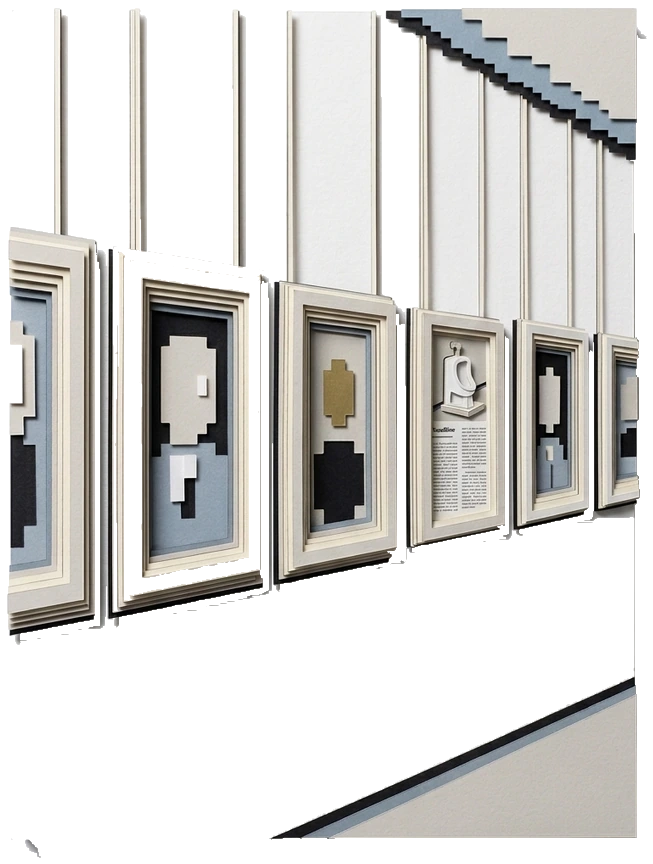
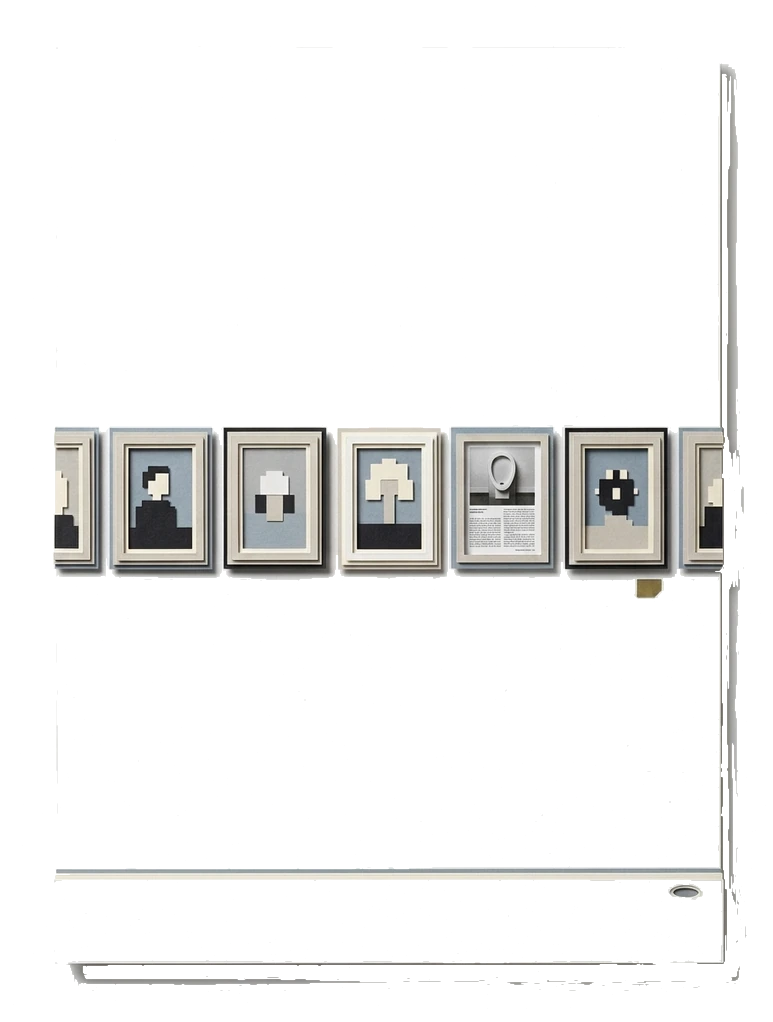
02・03を起こし直し、短評の上に「どんな企画か」を置く
抜きのしきい値が広く、明るい絵の中まで食い込んで欠けていた。隣との差を
6→3に締めた。03は暗い一枚板の上に組む形へ、02は小便器を大きくはっきりと。
あわせて、初めて見る人向けに何をした企画かの説明を短評の上に入れた。

diff --git a/src/data/cases.ts b/src/data/cases.ts
@@ -21,6 +21,8 @@ export const cases: Case[] = [
     year: 1590,
     yearLabel: "16世紀末",
     headline: "小さな入口が、身体の振る舞いを変える。",
+    outline:
+      "千利休がつくったと伝わる二畳の茶室、待庵。その入口「躙口」は高さも幅も七十センチほどしかなく、客は刀を外し、身をかがめて膝で進みながら中へ入る。十六世紀末の京都・大山崎に現存し、国宝に指定されている。",
     body:
       "二畳の茶室へ入るために、客は小さな躙口で身をかがめる。入口の寸法が、身体の動きと空間への注意を切り替える。言葉で姿勢を説くのではなく、入るという行為に組み込む。「身分を平等にした」とは断定しない。",
     target:
@@ -120,6 +122,8 @@ export const cases: Case[] = [
     year: 1917,
     yearLabel: "1917",
     headline: "無審査を掲げる展覧会へ、小便器を出す。",
+    outline:
+      "1917年、ニューヨークの無審査をうたう展覧会へ、マルセル・デュシャンが既製品の小便器を「R. Mutt」名義で《泉》として出品した。理事会は展示を見送り、作品は会場に並ばなかった。翌月、雑誌『The Blind Man』が写真と論説を載せ、この出来事のほうが記録として残った。",
     body:
       "小便器を作品として出品したが、展示されなかった。写真とその経緯が誌面に置かれると、見る人も「何を作品と呼ぶか」を判断する側になる。物の姿だけでなく、それを選び、名づけ、受け入れる条件が見えてくる。",
     target:
@@ -238,6 +242,8 @@ export const cases: Case[] = [
     year: 2011,
     yearLabel: "2011",
     headline: "知らない人の「死ぬまでにしたいこと」が並ぶ。",
+    outline:
+      "2011年、ニューオーリンズでキャンディ・チャンが、空き家の壁一面を黒板に塗り、「Before I die I want to ＿＿」という同じ書き出しと空欄を並べた。通りがかりの人がチョークで書き込み、翌日には壁が見知らぬ人の願いで埋まった。以後、同じ形式が世界各地で生まれている。",
     body:
       "街の壁に、同じ書き出しと空欄を置く。自分の願いを書くだけでなく、知らない人の願いも読める。冗談も切実な望みも同じ面に並び、次に来る人の言葉を誘う。作者が答えを用意せず、他者の人生が現れる場所をつくる。",
     target:
@@ -359,6 +365,8 @@ export const cases: Case[] = [
     year: 2022,
     yearLabel: "2022",
     headline: "同じ一台の車の鍵を、大勢が持つ。",
+    outline:
+      "2022年、MSCHFが一台の車の鍵を複製して多数売り出した企画。鍵を買えば誰でもその車に乗れるが、ほかの鍵の持ち主も同じ車を使える。車の位置は公開され、参加者は探して乗り、また別の場所へ置く。車の所有権はMSCHFに残ったままだった。",
     body:
       "車を見つければ使える。ただし、ほかの鍵の持ち主も同じ車を使える。車に乗りたいという欲望から探索に入ると、使えることと独り占めできることの違いに触れる。車の所有権は参加者に移らず、MSCHFに残る。",
     target:
@@ -519,6 +527,8 @@ export const cases: Case[] = [
     year: 2017,
     yearLabel: "2017",
     headline: "一人では少ししか描けない画面を、全員に開く。",
+    outline:
+      "2017年のエイプリルフールにRedditが公開した、1000×1000の共有画面。利用者は一度に一画素だけ色を置け、次に置けるまで数分待つ。72時間で100万人以上が参加し、上書きと修復の応酬から、共同体ごとの図柄と、その境界をめぐる取り決めが生まれた。",
     body:
       "一画素を置くと、次に置くまで待つ。しかも、同じ場所を他の人も上書きできる。描きたい絵を残すには、修復や仲間集め、隣との交渉が必要になる。単純な描画ルールから、作者が割り当てていない役割や関係が生まれた。",
     target:
@@ -670,6 +680,8 @@ export const cases: Case[] = [
     year: 2018,
     yearLabel: "2018",
     headline: "落札直後、額の中で絵が切れ始める。",
+    outline:
+      "2018年、サザビーズのオークションで、バンクシーの《風船と少女》が約104万ポンドで落札された直後、額に仕込まれた装置が動き、絵の下半分が裁断された。作品は《Love is in the Bin》として新たに認証され、落札者は購入を続行した。",
     body:
       "値段が決まった直後、額の仕掛けで絵の一部が裁断された。その後、新しい題名の作品として認証され、買い手は購入を続けた。保存される物としての絵に、一度きりの出来事としての姿が重なる。価値を決める場への介入。",
     target:
@@ -814,6 +826,8 @@ export const cases: Case[] = [
     year: 2016,
     yearLabel: "2016",
     headline: "街をつくり替えずに、街で遊ぶ理由を変える。",
+    outline:
+      "2016年、Nianticと株式会社ポケモンが配信した、現実の地図の上で遊ぶスマートフォンのゲーム。プレイヤーは実際に街を歩いてポケモンを探し、捕まえ、道具を補充する。配信直後から世界中で公園や路上に人が出て、いつもの道を歩く理由のほうが書き換わった。",
     body:
       "ポケモンを探して捕まえる遊びを、現実の移動につなぐ。いつもの道に、立ち止まる理由や寄り道の目的が重なる。捕まえたいという動機が、画面の外の行動を変える。ただし、歩くことがそのまま街への理解を深めるとは限らない。",
     target:

diff --git a/src/app/case/[slug]/page.tsx b/src/app/case/[slug]/page.tsx
@@ -71,6 +71,16 @@ export default async function CasePage({
 
               <div className="mt-8">
                 <div className="mb-2.5 flex items-baseline gap-2.5">
+                  <h2 className="text-13 font-medium tracking-[0.02em]">
+                    どんな企画か
+                  </h2>
+                  <span className="label">WHAT IT WAS</span>
+                </div>
+                <p className="copy max-w-[40rem]">{c.outline}</p>
+              </div>
+
+              <div className="mt-8">
+                <div className="mb-2.5 flex items-baseline gap-2.5">
                   <h2 className="text-13 font-medium tracking-[0.02em]">短評</h2>
                   <span className="label">WHAT IT DOES</span>
                 </div>

diff --git a/src/webgl/plateArtVersion.ts b/src/webgl/plateArtVersion.ts
@@ -2,8 +2,8 @@
 // 絵の中身から作った版番号。URLに付けて、古い絵が居座るのを防ぐ。
 export const PLATE_ART_VERSION: Record<string, string> = {
   "01": "ff26da95b3",
-  "02": "676ce0bbca",
-  "03": "6ffd4872de",
+  "02": "ec259100f6",
+  "03": "b00e9c4261",
   "04": "2534589076",
   "05": "3247bdfb15",
   "06": "c35161dc1e",

diff --git a/src/data/types.ts b/src/data/types.ts
@@ -73,6 +73,8 @@ export type Case = {
   yearLabel: string;
   /** 一行概要。 */
   headline: string;
+  /** 初めて見る人に向けた、何をした企画かの説明。評価の前に置く。 */
+  outline: string;
   /** 80〜140字程度の短評。 */
   body: string;
   /** 誰の・どの経験を読んだか。 */

diff --git a/tools/shrink-plate.py b/tools/shrink-plate.py
@@ -44,7 +44,7 @@ def peel(img):
                 seen[y, x] = True
                 q.append((y, x))
 
-    tol = 6  # 隣の画素とこれだけ違ってよい
+    tol = 3  # 隣の画素とこれだけ違ってよい。大きいと明るい絵の中へ食い込む。
     while q:
         y, x = q.popleft()
         c = a[y, x]
